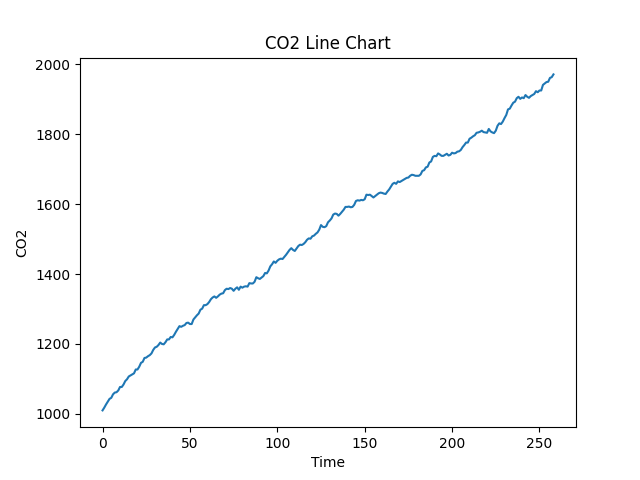
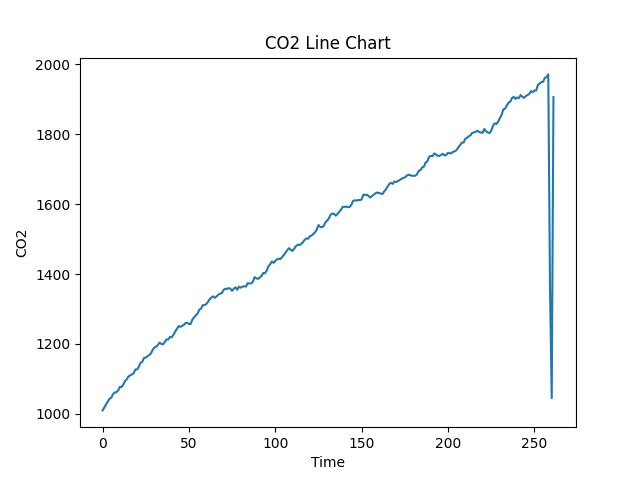
some fixes

diff --git a/main.py b/main.py
@@ -1,7 +1,8 @@
 from telegram import Update, InputMediaPhoto
-from telegram.ext import ContextTypes, Application, MessageHandler, filters, CommandHandler, CallbackContext, Updater
+from telegram.ext import ContextTypes, Application, MessageHandler, filters, CommandHandler, CallbackContext, Updater, CallbackQueryHandler
 import os
 from charts.charts import *
+import random
 
 TOKEN = '6958326278:AAFrhzqsABANo7cKyMSHwGz6UHtJHGopyxI'
 BOT_USERNAME = '@MqttMonitorBot'
@@ -9,6 +10,7 @@ CHAT_ID = '824304677'
 PATH = 'charts'
 TIMER = 10
 END_JSON = 'data.json'
+keyboard = [['ES', 'EN']]
 
 
 async def send_images(context: CallbackContext):
@@ -36,13 +38,22 @@ async def help_command(update: Update, context: ContextTypes.DEFAULT_TYPE):
 
 async def custom_command(update: Update, context: ContextTypes.DEFAULT_TYPE):
     with open(f'{PATH}/{END_JSON}', 'r') as file:
-        # Load the file contents into a string
         json_string = file.read()
 
     last_record = json_string.split('{')[-1][:-2]
     temp = last_record.split(',')[0].split(':')[1]
     co2 = last_record.split(',')[1].split(':')[1]
     message = f'Температура: {temp}\nCO2: {co2}'
+
+    with open(f'{PATH}/{END_JSON}', 'r') as file:
+        data = json.load(file)
+
+    new_entry = {"temperature": float(temp) + round(random.uniform(1, 2.5)), "CO2": int(co2) + random.randint(4, 12)}
+    data.append(new_entry)
+
+    with open(f'{PATH}/{END_JSON}', 'w') as file:
+        json.dump(data, file)
+
     await update.message.reply_text(message)
 
 #
